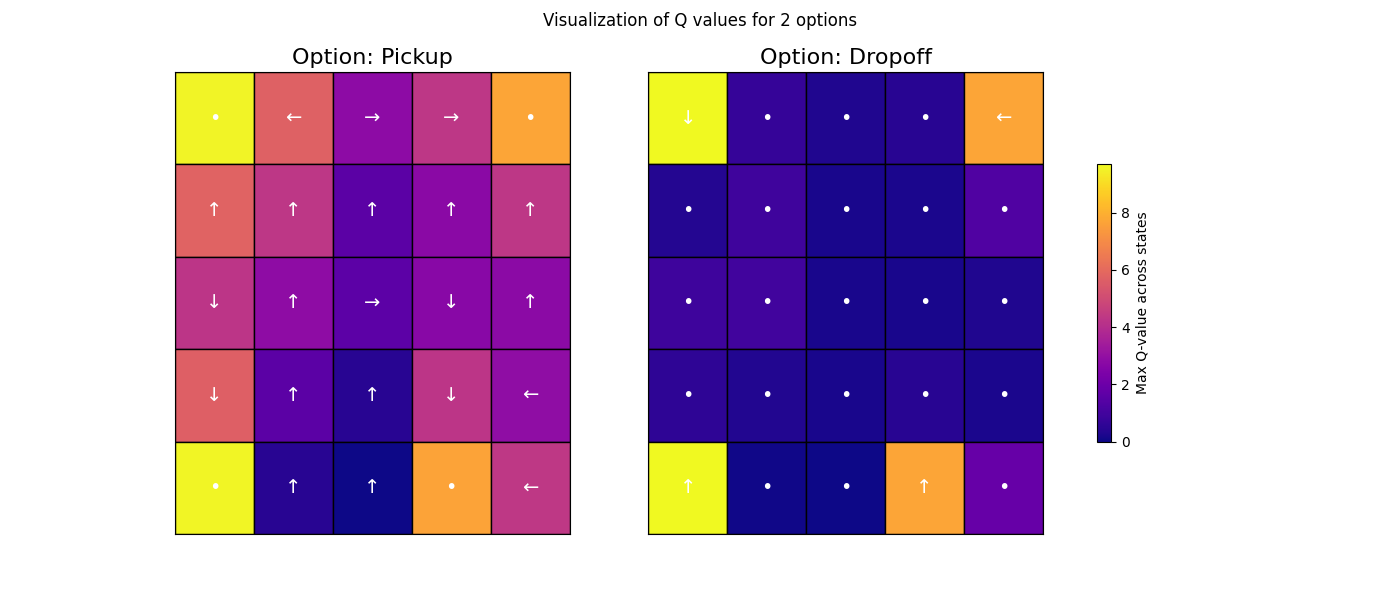
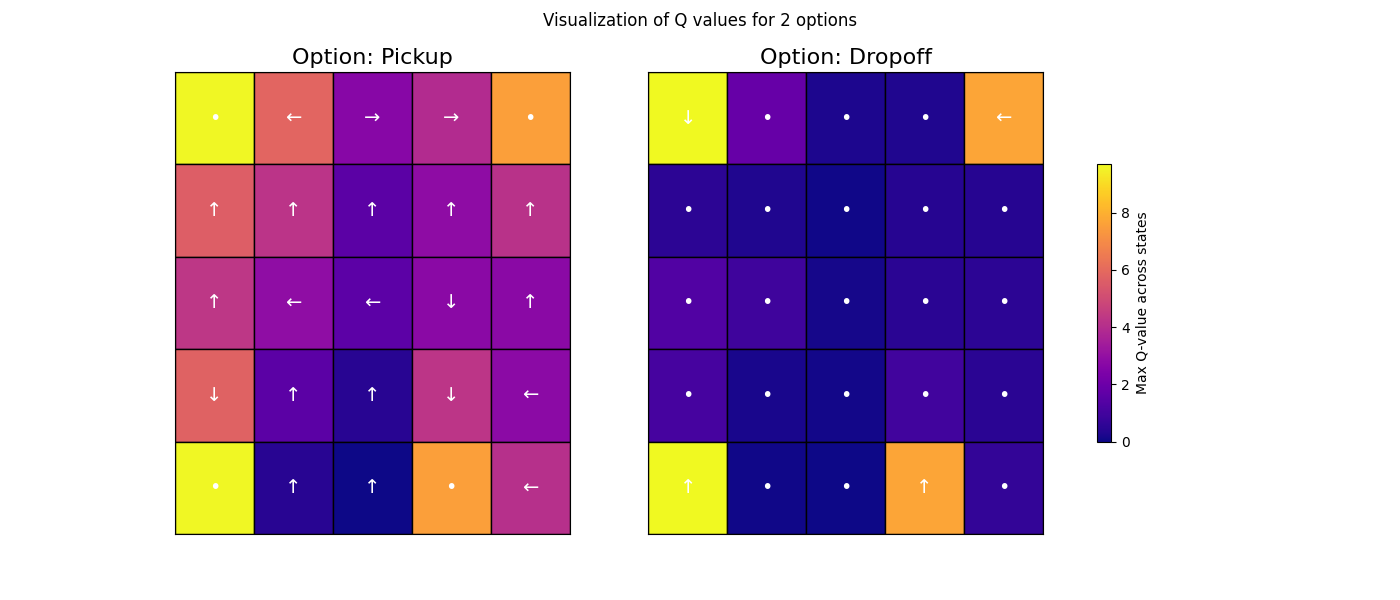
mew

diff --git a/assignment_3/smdp/utils.py b/assignment_3/smdp/utils.py
@@ -2,6 +2,9 @@ import matplotlib.pyplot as plt
 import matplotlib.patches as patches
 from matplotlib import colors
 import numpy as np
+import matplotlib.colors as mcolors
+import matplotlib.cm as cm
+from matplotlib.patches import Circle
 
 ACTION_ARROWS = {
     0: '↓',   # South
@@ -12,6 +15,152 @@ ACTION_ARROWS = {
     5: '⛟',   # Dropoff
     None: '•' # Terminate / No-op
 }
+
+def plot_rewards_1(rewards, window=100):
+    # Plot episodic rewards
+    plt.figure(figsize=(10, 5))
+    plt.plot(rewards, label='Episodic Returns')
+    plt.xlabel('Episode')
+    plt.ylabel('Total Return')
+    plt.title('SMDP Q learning Episodic Returns')
+    plt.legend()
+    plt.savefig("visualizations/smdp_episodic_returns_1.png")
+    plt.close()
+
+    # Compute moving average
+    if len(rewards) >= window:
+        moving_avg = np.convolve(rewards, np.ones(window)/window, mode='valid')
+    else:
+        moving_avg = np.array(rewards)  # If not enough episodes, just plot raw rewards
+
+    # Plot moving average
+    plt.figure(figsize=(10, 5))
+    plt.plot(moving_avg, color='orange', label=f'Moving Average (window={window})')
+    plt.xlabel('Episode')
+    plt.ylabel('Average Returns')
+    plt.title(f'SMDP Q learning Moving Average Returns (window={window})')
+    plt.legend()
+    plt.savefig("visualizations/smdp_moving_avg_returns_1.png")
+    plt.close()
+
+
+def plot_rewards_2(rewards, window=100):
+    # Plot episodic rewards
+    plt.figure(figsize=(10, 5))
+    plt.plot(rewards, label='Episodic Returns')
+    plt.xlabel('Episode')
+    plt.ylabel('Total Returns')
+    plt.title('SMDP Q learning Episodic Returns')
+    plt.legend()
+    plt.savefig("visualizations/smdp_episodic_returns_2.png")
+    plt.close()
+
+    # Compute moving average
+    if len(rewards) >= window:
+        moving_avg = np.convolve(rewards, np.ones(window)/window, mode='valid')
+    else:
+        moving_avg = np.array(rewards)  # If not enough episodes, just plot raw rewards
+
+    # Plot moving average
+    plt.figure(figsize=(10, 5))
+    plt.plot(moving_avg, color='orange', label=f'Moving Average (window={window})')
+    plt.xlabel('Episode')
+    plt.ylabel('Average Returns')
+    plt.title(f'SMDP Q learning Moving Average Returns (window={window})')
+    plt.legend()
+    plt.savefig("visualizations/smdp_moving_avg_returns_2.png")
+    plt.close()
+
+
+def visualize_best_options(Q, env, pass_idx, dest_idx, option_names, filename=None):
+    """
+    Visualize the best options for each state in a 5x5 grid for a fixed passenger location and destination.
+    
+    Args:
+        Q: Q-value table (states x options)
+        env: Taxi environment
+        pass_idx: Passenger location index (0-4, where 4 means passenger in taxi)
+        dest_idx: Destination index (0-3)
+        option_names: List of option names
+        filename: Optional filename to save the plot
+    """
+    # Create a 5x5 grid to store best options and their Q-values
+    best_options = np.zeros((5, 5), dtype=int)
+    best_q_values = np.zeros((5, 5))
+    
+    # Find best option and Q-value for each cell
+    for row in range(5):
+        for col in range(5):
+            state = env.unwrapped.encode(row, col, pass_idx, dest_idx)
+            best_option = np.argmax(Q[state])
+            best_options[row, col] = best_option
+            best_q_values[row, col] = Q[state, best_option]
+    
+    # Scale Q-values for circle sizes with better min/max constraints
+    min_q = np.min(best_q_values)
+    max_q = np.max(best_q_values)
+    
+    # Avoid division by zero if all Q-values are the same
+    if max_q == min_q:
+        scaled_q_values = np.ones_like(best_q_values) * 0.3  # Medium size
+    else:
+        # Scale to a more reasonable range (0.15 to 0.4) to prevent circles from being too big or too small
+        scaled_q_values = 0.15 + 0.25 * (best_q_values - min_q) / (max_q - min_q)
+    
+    # Create a colormap for options
+    n_options = len(option_names)
+    colors = plt.cm.tab10(np.linspace(0, 1, n_options))
+    
+    # Create figure and axis with smaller grid cells
+    fig, ax = plt.subplots(figsize=(8, 8))
+    
+    # Draw grid
+    for i in range(6):
+        ax.axhline(i, color='black', lw=1)
+        ax.axvline(i, color='black', lw=1)
+    
+    # Draw circles for each cell
+    for row in range(5):
+        for col in range(5):
+            option = best_options[row, col]
+            size = scaled_q_values[row, col]
+            
+            circle = Circle((col + 0.5, 4.5 - row), size/2, 
+                           color=colors[option], alpha=0.7)
+            ax.add_patch(circle)
+    
+    # Add legend
+    legend_elements = [plt.Line2D([0], [0], marker='o', color='w', 
+                      label=option_names[i], markerfacecolor=colors[i], markersize=10) 
+                      for i in range(n_options)]
+    ax.legend(handles=legend_elements, loc='upper center', 
+             bbox_to_anchor=(0.5, 1.15), ncol=min(5, n_options))
+    
+    # Set title and labels
+    passenger_loc = "in taxi" if pass_idx == 4 else f"at {['R', 'G', 'Y', 'B'][pass_idx]}"
+    destination = ['R', 'G', 'Y', 'B'][dest_idx]
+    ax.set_title(f"Best Options (Passenger {passenger_loc}, Destination {destination})")
+    ax.set_xlabel("Column")
+    ax.set_ylabel("Row")
+    
+    # Set axis limits and ticks
+    ax.set_xlim(0, 5)
+    ax.set_ylim(0, 5)
+    ax.set_xticks(np.arange(0.5, 5.5, 1))
+    ax.set_yticks(np.arange(0.5, 5.5, 1))
+    ax.set_xticklabels(range(5))
+    ax.set_yticklabels(range(5))
+    
+    # Adjust layout
+    plt.tight_layout()
+    
+    # Save if filename provided
+    if filename:
+        plt.savefig(filename)
+        plt.close()
+    else:
+        plt.show()
+
 
 
 def visualize_all_options(q_table, env,option_policy,OPTION_NAMES,filename):
@@ -129,22 +278,3 @@ def visualize_all_options_2(q_table, env, option_policy, OPTION_NAMES, filename)
 
     plt.savefig(filename)
     plt.close()
-
-
-
-def plot_rewards(rewards, filename):
-    plt.plot(rewards)
-    plt.xlabel("Episodes")
-    plt.ylabel("Total Return")
-    plt.title("SMDP Q-Learning: Return per Episode")
-    plt.savefig(filename)
-    plt.close()
-
-# def plot_q_values(Q, filename="q_values.png"):
-#     plt.imshow(Q, aspect='auto')
-#     plt.colorbar()
-#     plt.xlabel("Option")
-#     plt.ylabel("State")
-#     plt.title("Learned Q-values")
-#     plt.savefig(filename)
-#     plt.close()

diff --git a/assignment_3/smdp/main2.py b/assignment_3/smdp/main2.py
@@ -1,7 +1,9 @@
 import gymnasium as gym
 from smdp_qlearning import SMDPQAgent
 from options2 import option_policy, OPTION_NAMES, decode_state
-from utils import plot_rewards, visualize_all_options_2
+from utils import plot_rewards_2, visualize_all_options_2, visualize_best_options
+import os
+import numpy as np
 
 def run_episode(env, agent):
     state, _ = env.reset()
@@ -50,8 +52,22 @@ def main():
         if (ep+1) % 10 == 0:
             print(f"Episode {ep+1}: Reward = {ep_reward}")
 
-    plot_rewards(rewards, filename = 'visualizations/returns_2.png')
+    # Plot both raw rewards and moving average
+    plot_rewards_2(rewards, window=100)
+    
+    os.makedirs('visualizations', exist_ok=True)
+    
     visualize_all_options_2(agent.Q, env, option_policy, OPTION_NAMES, filename ='visualizations/Q_values_2.png')
+    
+    visualize_best_options(agent.Q, env, pass_idx=0, dest_idx=3, option_names=OPTION_NAMES, 
+                      filename='visualizations/best_options_passR_destB_2.png')
+    
+    visualize_best_options(agent.Q, env, pass_idx=4, dest_idx=2, option_names=OPTION_NAMES, 
+                      filename='visualizations/best_options_passinT_destY_2.png')
+    
+    # Calculate and print average reward over last 100 episodes
+    avg_reward = np.mean(rewards[-100:])
+    print(f"Average reward over last 100 episodes: {avg_reward}")
 
 if __name__ == "__main__":
     main()

diff --git a/assignment_3/smdp/main.py b/assignment_3/smdp/main.py
@@ -1,7 +1,9 @@
 import gymnasium as gym
 from smdp_qlearning import SMDPQAgent
 from options import option_policy, OPTION_NAMES, decode_state
-from utils import plot_rewards, visualize_all_options
+from utils import plot_rewards_1, visualize_all_options, visualize_best_options
+import numpy as np
+import os
 
 def run_episode(env, agent):
     state, _ = env.reset()
@@ -51,8 +53,22 @@ def main():
         if (ep+1) % 10 == 0:
             print(f"Episode {ep+1}: Reward = {ep_reward}")
 
-    plot_rewards(rewards, filename = 'visualizations/returns_1.png')
+    os.makedirs('visualizations', exist_ok=True)
+    
+    # Plot both raw rewards and moving average
+    plot_rewards_1(rewards, window=100)
+    
     visualize_all_options(agent.Q, env, option_policy, OPTION_NAMES, filename ='visualizations/Q_values_1.png')
+    
+    visualize_best_options(agent.Q, env, pass_idx=0, dest_idx=3, option_names=OPTION_NAMES, 
+                      filename='visualizations/best_options_passR_destB_1.png')
+    
+    visualize_best_options(agent.Q, env, pass_idx=4, dest_idx=2, option_names=OPTION_NAMES, 
+                      filename='visualizations/best_options_passinT_destY_1.png')
+    
+    # Calculate and print average reward over last 100 episodes
+    avg_reward = np.mean(rewards[-100:])
+    print(f"Average reward over last 100 episodes: {avg_reward}")
 
 if __name__ == "__main__":
     main()

diff --git a/assignment_3/smdp/options2.py b/assignment_3/smdp/options2.py
@@ -5,7 +5,7 @@ import heapq
 # Constants for options
 PICKUP_OPTION, DROPOFF_OPTION = 0, 1
 OPTION_NAMES = ['Pickup', 'Dropoff']
-
+    
 # Locations of R, G, Y, B
 LOCATIONS = [(0, 0), (0, 4), (4, 0), (4, 3)]  # R, G, Y, B
 
